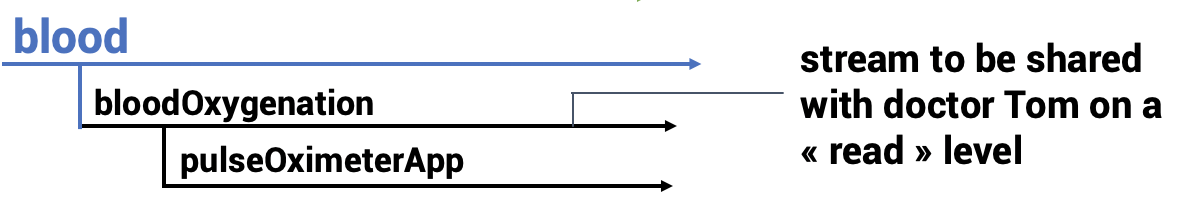
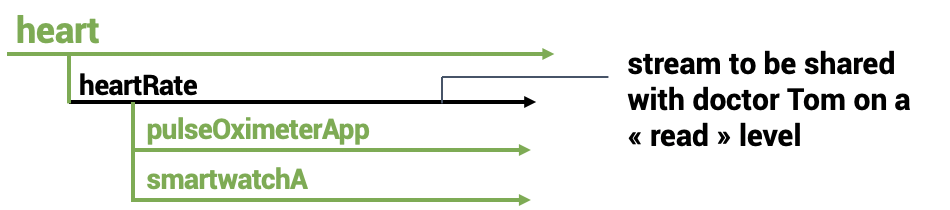
Changing naming of streams

Changed region(s): [[0.0, 0.0571, 0.9768, 0.9714], [0.4579, 0.2, 0.9768, 0.3714], [0.6411, 0.5714, 0.8547, 0.7429]]

diff --git a/source/getting-started.md b/source/getting-started.md
@@ -281,7 +281,7 @@ Pryv.io enables you to define different accesses with different levels of permis
 
 Let's imagine that our athlete wants to share pictures of his meals with his nutritionist Bob, and enable his doctor Tom to check the evolution of his blood oxygenation. 
 
-To do so, he needs to give permission to his nutritionist Bob to "manage" the stream `FoodA` on which the pictures of his meals are uploaded. The level "manage" will enable Bob to not only consult the pictures, but also create, modify and delete child streams of `FoodA`, by adding his comments on a new child stream of `FoodA`, e.g `Nutritionist Notes`. 
+To do so, he needs to give permission to his nutritionist Bob to "manage" the stream `FoodA` on which the pictures of his meals are uploaded. The level "contribute" will enable Bob to not only view the pictures, but also add his comments as new events in the stream `nutritionApp`. 
 
 ![Access distribution for Bob](/assets/images/getting-started/access_bob.png)
 
@@ -293,23 +293,23 @@ The access for the nutritionist Bob will be created by a `POST` call on accesses
   "permissions": [
     {
       "streamId": "FoodA",
-      "level": "manage"
+      "level": "contribute"
     }
   ]
 }
 ```
-Similarly, the athlete will give access to the stream `bloodOxygenation` to doctor Tom on a "read" level for the doctor to be able to consult the evolution of the blood oxygenation.
+Similarly, the athlete will give access to the stream `heartRate` to doctor Tom on a "read" level for the doctor to be able to consult the evolution of his heart rate.
 
 ![Access distribution for Tom](/assets/images/getting-started/access_tom.png)
 
-This will be translated into the creation of a new read access on the stream `bloodOxygenation`(see [accesses.create](https://api.pryv.com/reference/#create-access)):
+This will be translated into the creation of a new read access on the stream `heartRate`(see [accesses.create](https://api.pryv.com/reference/#create-access)):
 
 ```json
 {
   "name": "For Doctor Tom",
   "permissions": [
     {
-      "streamId": "bloodOxygenation",
+      "streamId": "heartRate",
       "level": "read"
     }
   ]
@@ -326,8 +326,6 @@ As you can see from the example above, each permission specifies a `streamId`, t
 - `manage`: Enables users to fully control the stream. Can create, update, delete and move the stream.
 
 A more exhaustive explanation of the concept of "Access" and the different "levels" of permissions can be found in the [API reference](http://api.pryv.com/reference/#access).
-
-Finally, note that an existing access can be used to create other accesses, but only if the new access has lower permissions (Shared < App < Personal and Read < Contribute < Manage). Also, an access can create other accesses only in the same scope, namely with permissions on the same streams and their childrens.
 
 # What Next?
 

diff --git a/source/guides/data-modelling.md b/source/guides/data-modelling.md
@@ -77,14 +77,6 @@ In our case :
   {
     "method": "streams.create",
     "params": {
-      "id": "smartwatchA",
-      "parentId": "pulseOximeterApp",
-      "name": "Smart Watch A"
-    }
-  },
-  {
-    "method": "streams.create",
-    "params": {
       "id": "blood",
       "name": "Blood"
     }
@@ -95,14 +87,6 @@ In our case :
       "id": "bloodOxygenation",
       "parentId": "blood",
       "name": "Blood Oxygenation"
-    }
-  },
-  {
-    "method": "streams.create",
-    "params": {
-      "id": "pulseOximeterApp",
-      "parentId": "bloodOxygenation",
-      "name": "Pulse Oximeter Application"
     }
   },
   {
@@ -157,14 +141,6 @@ In our case :
       "id": "foodB",
       "parentId": "foodConsumption",
       "name": "Food B"
-    }
-  },
-  {
-    "method": "streams.create",
-    "params": {
-      "id": "nutritionApp",
-      "parentId": "foodB",
-      "name": "Nutrition App"
     }
   }
 ]
